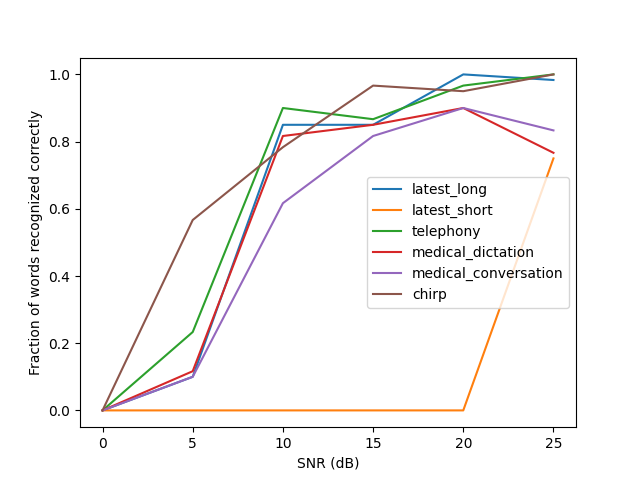
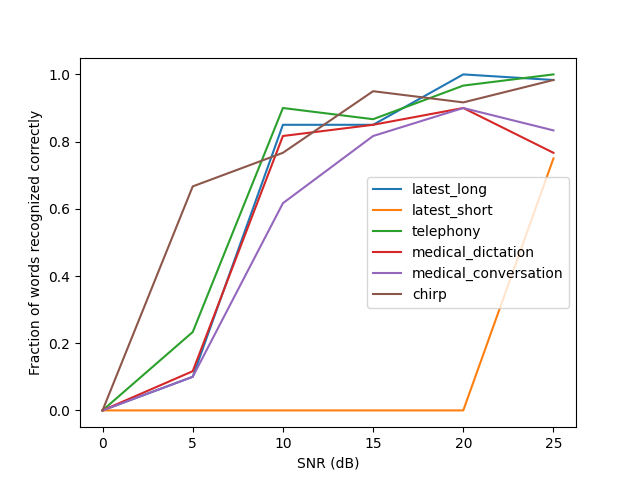
Refactored recognition and scoring so they are separate functions.  Updated chirp results.

diff --git a/google_asr_sin.py b/google_asr_sin.py
@@ -623,7 +623,15 @@ def save_ground_truth(truth: List[List[SpinSentence]], filename: str):
 
 
 def load_ground_truth(filename: str) -> List[List[SpinSentence]]:
-  """Load the precomputed QuickSIN ground truth from a file."""
+  """Load the precomputed QuickSIN ground truth from a file.
+  
+  Args:
+    The file from which to read the cached ground truth.
+
+  Return:
+    A list of 12 SPIN lists, each list containing the 6 SPIN 
+    sentences at the different SNRs.
+  """
   with fsspec.open(filename, 'r') as fp:
     saved_data = json.load(fp)
   if isinstance(saved_data, dict):
@@ -801,17 +809,15 @@ all_model_names = ('latest_long',
                    'chirp',
 )
 
-def score_all_models(
+def recognize_with_all_models(
     project_id: str,
     spin_test_names: List[str],
-    ground_truths: List[List[SpinSentence]],
-    test_snrs: List[float] = spin_snrs,
-    model_names: List[str] = all_model_names) -> Dict[str, np.ndarray]:
-  """Score all QuickSIN test files (from the spin_test_names argument) against
-  the ground_truths.  Return a dictionary of scores vs. SNRs, keyed by the 
-  model name.
+    model_names: List[str] = all_model_names) -> Dict[str, SpinFileTranscripts]:
+  """Recognize all QuickSIN test files (from the spin_test_names argument)
+  Return a dictionary of scores vs. list of lists of transcripts, keyed by 
+  the model name.
   """
-  model_scores = {}
+  model_results = {}
 
   for model_name in model_names:
     print(f'Model: {model_name}')
@@ -820,7 +826,23 @@ def score_all_models(
     asr_engine.CreateRecognizer()
     babble_transcripts = recognize_all_spin(spin_test_names, asr_engine)
     # Babble_transcripts is a SpinFileTranscripts List[List[RecogResults]]
+    model_results[model_name] = babble_transcripts
+  return model_results
 
+
+def score_all_models(
+    model_results: Dict[str, SpinFileTranscripts],
+    ground_truths: List[List[SpinSentence]],
+    test_snrs: List[float] = spin_snrs) -> Dict[str, np.ndarray]:
+  """Score all QuickSIN test files (from the spin_test_names argument) against
+  the ground_truths.  Return a dictionary of scores vs. SNRs, keyed by the 
+  model name.
+  """
+  model_scores = {}
+  print(type(model_results), model_results)
+
+  for model_name in model_results:
+    babble_transcripts = model_results[model_name]
     scores = score_all_tests(test_snrs,
                              ground_truths,
                              babble_transcripts,
@@ -829,7 +851,44 @@ def score_all_models(
   return model_scores
 
 
-def save_model_results(scores: Dict[str, np.ndarray], filename: str):
+def save_recognition_results(
+    recognition_results: Dict[str, SpinFileTranscripts],
+    recognition_json_file: str):
+  """Save the recognition results for all models into a JSON file so we don't 
+  have to query the cloud again."""
+  class DataclassEncoder(json.JSONEncoder):
+    def default(self, o):
+      if dataclasses.is_dataclass(o):
+        return dataclasses.asdict(o)
+      elif isinstance(o, set):
+        return list(o)
+      return super().default(o)
+
+  saved_data = {
+    'recognition_results': recognition_results,
+    'time': str(datetime.datetime.now())
+  }
+  with fsspec.open(recognition_json_file, 'w') as fp:
+    json.dump(saved_data, fp, cls=DataclassEncoder)
+
+def load_recognition_results(filename: str) -> Dict[str, SpinFileTranscripts]:
+  """Load the precomputed QuickSIN results from a file."""
+  with fsspec.open(filename, 'r') as fp:
+    results = json.load(fp)
+  if 'recognition_results' in results:
+    results = results['recognition_results']
+  for k in results:
+    # print(type(results[k]), results[k])
+    list_of_lists = []
+    for i in results[k]:
+      list_of_words = []
+      for j in i:
+        list_of_words.append(RecogResult(**j))
+      list_of_lists.append(list_of_words)
+    results[k] = list_of_lists
+  return results
+
+def save_model_scores(scores: Dict[str, np.ndarray], filename: str):
   """Save the QuickSIN results for all models into a JSON file so we don't have
   to compute it again."""
   class NumpyArrayEncoder(json.JSONEncoder):
@@ -846,7 +905,7 @@ def save_model_results(scores: Dict[str, np.ndarray], filename: str):
     json.dump(saved_data, fp, cls=NumpyArrayEncoder)
 
 
-def load_model_results(filename: str) -> Dict[str, np.ndarray]:
+def load_model_scores(filename: str) -> Dict[str, np.ndarray]:
   """Load the precomputed QuickSIN results from a file."""
   with fsspec.open(filename, 'r') as fp:
     results = json.load(fp)
@@ -912,27 +971,57 @@ def run_ground_truth(ground_truth_json_file: str,
     assert len(truths), 12
   return truths
 
-def run_score_models(models_json_file: str,
-                     truths, audio_dir: str,
-                     project_id: str) -> Dict[str, np.ndarray]:
-  if not os.path.exists(models_json_file):
+def run_recognize_models(recognition_json_file: str,
+                         audio_dir: str,
+                         project_id: str) -> Dict[str, SpinFileTranscripts]:
+  if not os.path.exists(recognition_json_file):
     spin_pattern = os.path.join(audio_dir, '*.wav')
     spin_file_names = fsspec.open_files(spin_pattern)
     spin_file_names = [f.full_name for f in spin_file_names]
     spin_test_names = [f for f in spin_file_names if 'Babble' in f]
     spin_test_names.sort(key=sort_by_list_number)
 
-    model_frac_scores = score_all_models(project_id,
-                                         spin_test_names,
+    recognition_results = recognize_with_all_models(
+      project_id,
+      spin_test_names,
+      )
+    save_recognition_results(recognition_results, recognition_json_file)
+  else:
+    print('Reloading recogntion results from', recognition_json_file)
+    recognition_results = load_recognition_results(recognition_json_file)
+    assert isinstance(recognition_results, dict)
+  return recognition_results
+
+def run_score_models(models_json_file: str,
+                     model_results: Dict[str, SpinFileTranscripts],
+                     truths) -> Dict[str, np.ndarray]:
+  if not os.path.exists(models_json_file):
+    model_frac_scores = score_all_models(model_results,
                                          truths)
     print('Model fraction correct scores:', model_frac_scores)
-    save_model_results(model_frac_scores, models_json_file)
+    save_model_scores(model_frac_scores, models_json_file)
   else:
     print('Reloading model scores from', models_json_file)
-    model_frac_scores = load_model_results(models_json_file)
+    model_frac_scores = load_model_scores(models_json_file)
     assert isinstance(model_frac_scores, dict)
   return model_frac_scores
 
+
+# From: https://devarea.com/linear-regression-with-numpy/
+def linear_regression(x: np.ndarray, y: np.ndarray) -> Tuple[float, float]:
+  x = np.asarray(list(x))
+  y = np.asarray(list(y))
+  print(f'x is a {type(x)}, y is a {type(y)}')
+  print(f'X: {x}, y: {y}')
+  # https://stackoverflow.com/questions/44462766/removing-nan-elements-from-2-arrays
+  indices = np.logical_not(np.logical_or(np.isnan(x), np.isnan(y)))    
+  indices = np.array(indices)
+  x = x[indices]
+  y = y[indices]
+  print(f'X: {x}, y: {y}')
+  m = (len(x) * np.sum(x*y) - np.sum(x) * np.sum(y)) / (len(x)*np.sum(x*x) - np.sum(x) ** 2)
+  b = (np.sum(y) - m *np.sum(x)) / len(x)
+  return m, b
 
 #############  MAIN PROGRAM - Test all models and create graphs  ###############
 
@@ -943,7 +1032,9 @@ FLAGS = flags.FLAGS
 # If there is a conflict, we'll get an error at import time.
 flags.DEFINE_string('ground_truth_cache', 'ground_truth.json',
                     'Where to keep a cache of the QuickSIN ground truth')
-flags.DEFINE_string('models_scores_cache', 'models_scores.json',
+flags.DEFINE_string('model_recognition_cache', 'model_recognition.json',
+                    'Where to keep a cache of the QuickSIN model results')
+flags.DEFINE_string('model_result_cache', 'model_result.json',
                     'Where to keep a cache of the QuickSIN model results')
 flags.DEFINE_string('audio_dir', '../QuickSIN/QuickSIN22/',
                     'Where to find the QuickSIN .wav files')
@@ -976,10 +1067,13 @@ def main(_):
                             FLAGS.audio_dir,
                             FLAGS.sentence_boundary_graph)
 
-  model_frac_scores = run_score_models(FLAGS.models_scores_cache,
-                                       truths,
+  model_results = run_recognize_models(FLAGS.model_recognition_cache,
                                        FLAGS.audio_dir,
                                        project_id)
+
+  model_frac_scores = run_score_models(FLAGS.model_result_cache,
+                                       model_results,
+                                       truths)
 
   #pylint: disable=consider-using-dict-items
   if FLAGS.all_score_graph:
@@ -1082,5 +1176,10 @@ def main(_):
     plt.plot([left, right], [left, right], '--')
     plt.savefig(FLAGS.logistic_counting_graph)
 
+    m, b = linear_regression(quicksin_regression_loss.values(),
+                             quicksin_counting_loss.values())
+    print(f'Linear regression: slope is {m}, bias is {b}')
+
 if __name__ == '__main__':
   app.run(main)
+

diff --git a/google_asr_sin_test.py b/google_asr_sin_test.py
@@ -1,4 +1,5 @@
 """Code to test the auditory toolbox."""
+import dataclasses
 import io
 import os
 import re
@@ -325,12 +326,24 @@ L 1 S 0  tear/Tara thin sheet yellow pad
     new_truths = gasr.load_ground_truth(json_file)
     self.assertEqual(truths, new_truths)
 
+
+  def test_recognition_results(self):
+    sft = {'foo': [[gasr.RecogResult('bar', 1, 2)]]}
+    json_file = '/tmp/recog_results_test.json'
+    gasr.save_recognition_results(sft,  json_file)
+
+    new_sft = gasr.load_recognition_results(json_file)
+    self.assertIsInstance(new_sft, dict)
+    self.assertListEqual(list(new_sft), list(sft))
+    self.assertEqual(dataclasses.asdict(sft['foo'][0][0]),
+                     dataclasses.asdict(new_sft['foo'][0][0]))
+
   def test_model_results_save(self):
     test_scores = {'1': np.arange(3), '2': np.arange(1,3)}
     json_file = '/tmp/model_results_test.json'
-    gasr.save_model_results(test_scores, json_file)
+    gasr.save_model_scores(test_scores, json_file)
 
-    new_scores = gasr.load_model_results(json_file)
+    new_scores = gasr.load_model_scores(json_file)
     self.assertLen(new_scores.keys(), 2)
     np.testing.assert_array_equal(new_scores['1'], test_scores['1'])
     np.testing.assert_array_equal(new_scores['2'], test_scores['2'])
